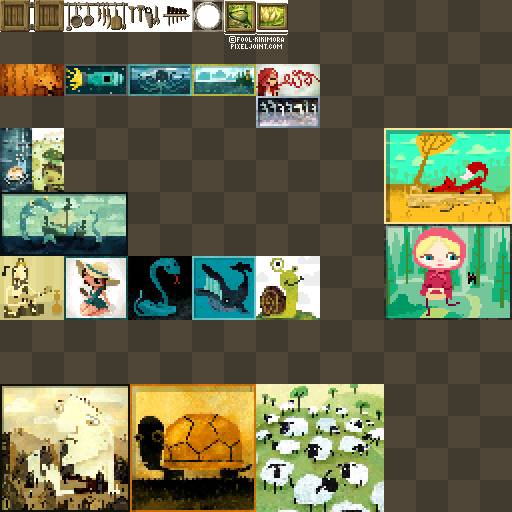
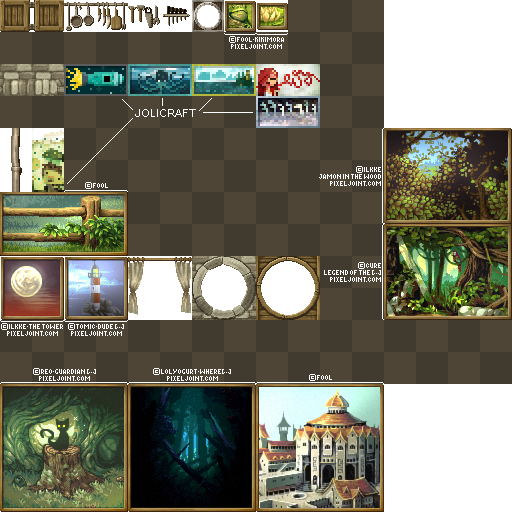
v1.8

diff --git a/README.md b/README.md
@@ -9,6 +9,30 @@ http://www.minecraft.net
 
 * Milktache, for setting up SummerFields on the customizer !
 
+		----------------
+
+
+If you play with some mod, you should download mod support for summerfields :
+- On the summerfields thread you can download all of them.
+
+* Tale of kingdoms support :
+	http://adf.ly/4AC20
+
+* Claysoldiers support :
+	http://adf.ly/4EurC
+
+* Wurstknifte's bookmod support :
+	http://adf.ly/4ABx8
+
+* Better Than Wolves support :
+	NO LINK YET !
+	Comming December 31 2011 ! 
+	Check Summerfields thread if the date is passed !
+    
+		----------------
+
+31/12/11 :
+New dyes, better cauldron, fixed painting
 
 28/11/11 :
 New animated water, new animated lava, some fix on the GUI (hunger, healt)
